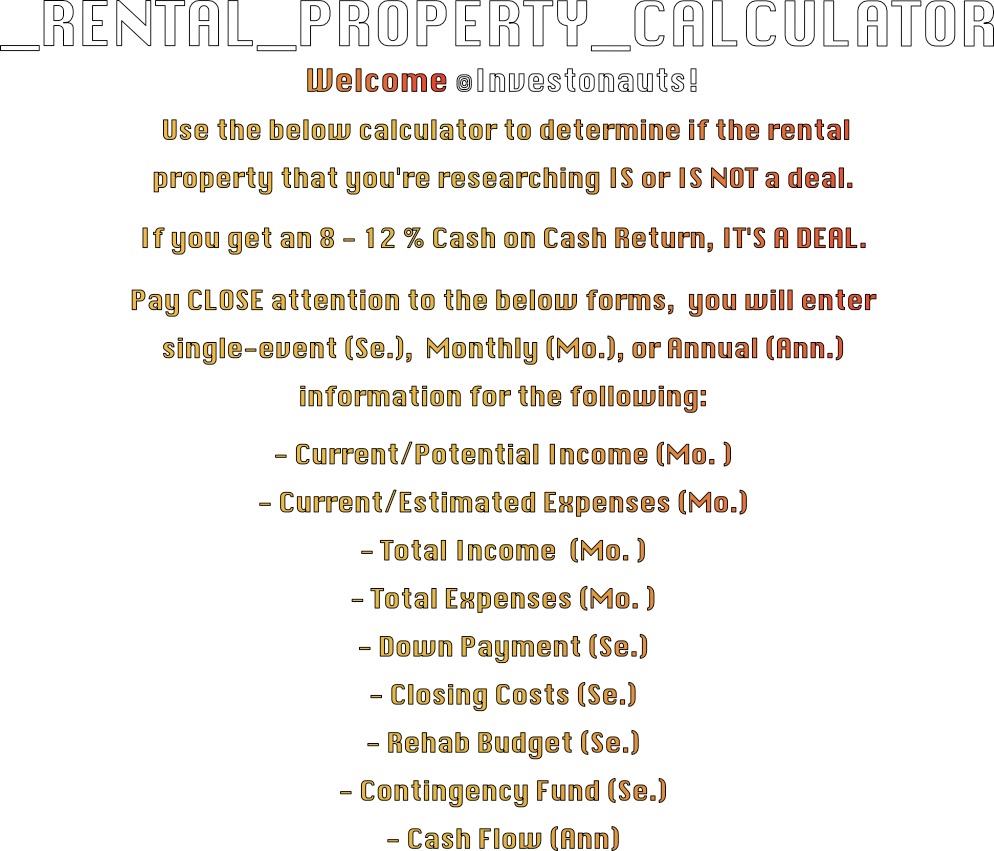
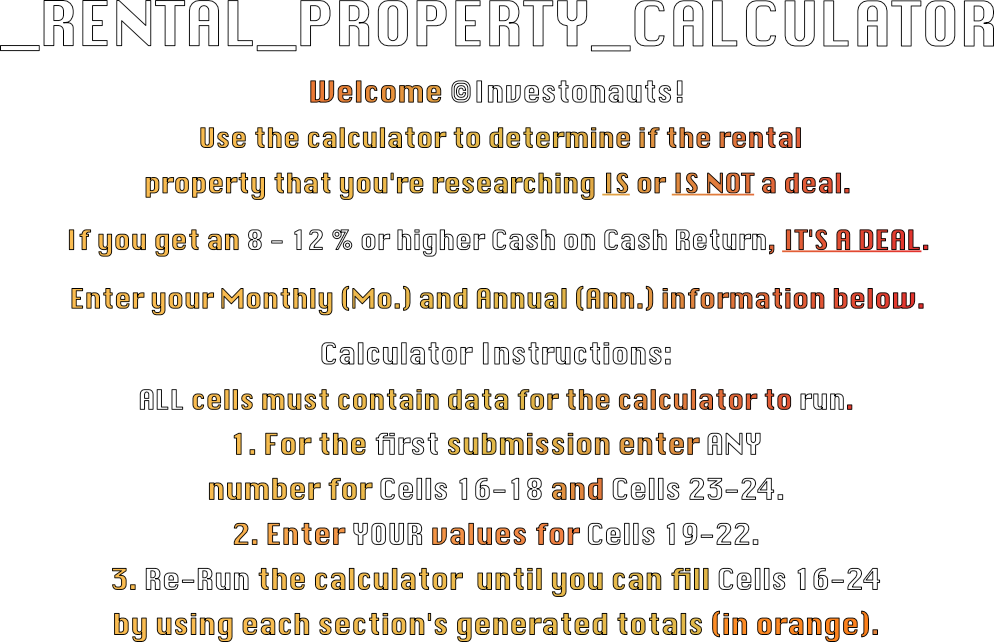
calculator complete

Changed region(s): [[0.0624, 0.3427, 0.9356, 0.7165], [0.0, 0.0, 1.0, 0.3115], [0.0936, 0.7477, 0.9044, 1.0]]

diff --git a/app/templates/rentalboard.html b/app/templates/rentalboard.html
@@ -19,13 +19,6 @@
     <img src="../static/images/rentalcalc.png">
 </div>
 
-<div class="btn-toolbar justify-content-center">
-    <div class="btn-group me-2">
-        <button type="button" class="btn btn-med btn-outline-danger">Export</button>
-    </div>
-</div>
-<br>
-
 <form method="POST" id="placeinfo">
     <!--Coding Options #2 and #3 use Form for jinja statements-->
     <!--Coding Option #1 use Form and Form2 for two separate divs with different 
@@ -35,12 +28,12 @@
         <div class="row">
             <div class="col-md-6">
                 <fieldset id="rentalincome-field">
-                    {{ form.rentalincome(class="form-control text-center", placeholder="Enter Mo. Rental Income") }}
+                    {{ form.rentalincome(class="form-control text-center", placeholder="Enter Monthly (Mo.) Rental Income (Cell 1)") }}
                 </fieldset>
                 <br>
 
                 <fieldset id="miscsvcincome-field">
-                    {{ form.miscsvcincome(class="form-control text-center", placeholder="Enter Mo. Miscellaneous Income (If you profit from other services) ") }}
+                    {{ form.miscsvcincome(class="form-control text-center", placeholder="Enter Other Rental Income (Cell 2) ") }}
                 </fieldset>
                 <br>
 
@@ -50,73 +43,73 @@
                 <br>
                 <!---->
                 <fieldset id="proptax-field">
-                    {{ form.proptax(class="form-control text-center", placeholder="Enter Mo. Property Tax") }}
+                    {{ form.proptax(class="form-control text-center", placeholder="Enter Mo. Property Tax (Cell 3)") }}
                 </fieldset>
                 <br>
 
                 <fieldset id="insurance-field">
-                    {{ form.insurance(class="form-control text-center", placeholder="Enter Mo. Insurance Cost") }}
+                    {{ form.insurance(class="form-control text-center", placeholder="Enter Mo. Insurance Cost (Cell 4)") }}
                 </fieldset>
                 <br>
 
                 <fieldset id="watersewer-field">
-                    {{ form.watersewer(class="form-control text-center", placeholder="Enter Mo. Water/Sewer Cost") }}
+                    {{ form.watersewer(class="form-control text-center", placeholder="Enter Mo. Water/Sewer Cost (Cell 5)") }}
                 </fieldset>
                 <br>
 
                 <fieldset id="garbage-field">
-                    {{ form.garbage(class="form-control text-center", placeholder="Enter Mo. Garbage Cost") }}
+                    {{ form.garbage(class="form-control text-center", placeholder="Enter Mo. Garbage Cost (Cell 6)") }}
                 </fieldset>
                 <br>
 
                 <fieldset id="electricity-field">
-                    {{ form.electricity(class="form-control text-center", placeholder="Enter Mo. Electricity Cost") }}
+                    {{ form.electricity(class="form-control text-center", placeholder="Enter Mo. Electricity Cost (Cell 7)") }}
                 </fieldset>
                 <br>
             </div>
             <div class="col-md-6">
                 <fieldset id="gas-field">
-                    {{ form.gas(class="form-control text-center", placeholder="Enter Mo. Gas Cost") }}
+                    {{ form.gas(class="form-control text-center", placeholder="Enter Mo. Gas Cost (Cell 8)") }}
                 </fieldset>
                 <br>
 
                 <fieldset id="hoafees-field">
-                    {{ form.hoafees(class="form-control text-center", placeholder="Enter Mo. HOA Fees") }}
+                    {{ form.hoafees(class="form-control text-center", placeholder="Enter Mo. HOA Fees (Cell 9)") }}
                 </fieldset>
                 <br>
 
                 <fieldset id="lawn-field">
-                    {{ form.lawn(class="form-control text-center", placeholder="Enter Mo. Lawn Maintenance Cost") }}
+                    {{ form.lawn(class="form-control text-center", placeholder="Enter Mo. Lawn Maintenance Cost (Cell 10)") }}
                 </fieldset>
                 <br>
 
                 <fieldset id="vacancy-field">
-                    {{ form.vacancy(class="form-control text-center", placeholder="Enter Mo. Vacancy Savings") }}
+                    {{ form.vacancy(class="form-control text-center", placeholder="Enter Mo. Vacancy Savings (Cell 11)") }}
                 </fieldset>
                 <br>
 
                 <fieldset id="repairs-field">
-                    {{ form.repairs(class="form-control text-center", placeholder="Enter Mo. Repair Savings") }}
+                    {{ form.repairs(class="form-control text-center", placeholder="Enter Mo. Repair Savings (Cell 12)") }}
                 </fieldset>
                 <br>
 
                 <fieldset id="capex-field">
-                    {{ form.capex(class="form-control text-center", placeholder="Enter Mo. Capex Savings") }}
+                    {{ form.capex(class="form-control text-center", placeholder="Enter Mo. Capex Savings (Cell 13)") }}
                 </fieldset>
                 <br>
 
                 <fieldset id="propmgmt-field">
-                    {{ form.propmgmt(class="form-control text-center", placeholder="Enter Mo. Property Management Cost") }}
+                    {{ form.propmgmt(class="form-control text-center", placeholder="Enter Mo. Property Management Cost (Cell 14)") }}
                 </fieldset>
                 <br>
 
                 <fieldset id="mortgage-field">
-                    {{ form.mortgage(class="form-control text-center", placeholder="Enter Mo. Property Mortgage Cost") }}
+                    {{ form.mortgage(class="form-control text-center", placeholder="Enter Mo. Property Mortgage Cost (Cell 15)") }}
                 </fieldset>
                 <br>
 
                 {%if form%}
-                <h6 class="font-weight-bold font-size:25px" id="results">Monthy Expenses: ${{calc1[1]}}
+                <h6 class="font-weight-bold font-size:25px" id="results">Montlhy Rental Expenses: ${{calc1[1]}}
                 </h6>
                 {%endif%}
                 <br>
@@ -127,30 +120,76 @@
         <div class="row">
             <div class="col-lg-6">
                 <fieldset id="totalincome-field">
-                    {{ form.totalincome(class="form-control text-center", placeholder="Enter Mo. Capex Savings") }}
+                    {{ form.totalincome(class="form-control text-center", placeholder="Enter Mo. Rental Income (From Section Total) (Cell 16)") }}
                 </fieldset>
                 <br>
 
                 <fieldset id="totalexpenses-field">
-                    {{ form.totalexpenses(class="form-control text-center", placeholder="Enter Monthly Property Management Cost") }}
+                    {{ form.totalexpenses(class="form-control text-center", placeholder="Enter Mo. Rental Expenses (From Section Total) (Cell 17)") }}
                 </fieldset>
                 <br>
 
                 {%if form%}
-                <h6 class="font-weight-bold font-size:25px" id="results">Total Monthly Cashflow: ${{calc1[2]}}
+                <h6 class="font-weight-bold font-size:25px" id="results">Monthly Cashflow: ${{calc1[2]}}
                 </h6>
                 {%endif%}
                 <br>
 
+                <fieldset id="totalmonthlycashflow-field">
+                    {{ form.totalmonthlycashflow(class="form-control text-center", placeholder="Enter Mo. Cashflow (From Section Total) (Cell 18)") }}
+                </fieldset>
+                <br>
+
+                {%if form%}
+                <h6 class="font-weight-bold font-size:25px" id="results">Annual Cashflow: ${{calc1[3]}}
+                </h6>
+                {%endif%}
+                <br>
+
+                <fieldset id="downpayment-field">
+                    {{ form.downpayment(class="form-control text-center", placeholder="Enter Your Property Down Payment (Cell 19)") }}
+                </fieldset>
+                <br>
+                {{ form.submit(class="btn btn-block btn-light") }}
             </div>
-        </div>
-        <div class="col-lg-6">
+            <div class="col-lg-6">
+                <fieldset id="onlyclosingcosts-field">
+                    {{ form.closingcosts(class="form-control text-center", placeholder="Enter Your Property Closing Costs (Cell 20)") }}
+                </fieldset>
+                <br>
 
+                <fieldset id="totalexpenses-field">
+                    {{ form.rehabbudget(class="form-control text-center", placeholder="Enter Your Rehab Budget (Cell 21)") }}
+                </fieldset>
+                <br>
 
+                <fieldset id="contingencyfund-field">
+                    {{ form.contingencyfund(class="form-control text-center", placeholder="Enter Your Contingency Fund (Cell 22)") }}
+                </fieldset>
+                <br>
 
+                {%if form%}
+                <h6 class="font-weight-bold font-size:25px" id="results">Required Investment (To Purchase Property): ${{calc1[4]}}
+                </h6>
+                {%endif%}
+                <br>
 
+                <fieldset id="annualcashflow-field">
+                    {{ form.annualcashflow(class="form-control text-center", placeholder="Enter Annual Cashflow (From Section Total) (Cell 23)") }}
+                </fieldset>
+                <br>
 
-            {{ form.submit(class="btn btn-block btn-outline-light") }}
+                <fieldset id="totalinvestment-field">
+                    {{ form.totalinvestment(class="form-control text-center", placeholder="Enter Required Investment (From Section Total) (Cell 24)") }}
+                </fieldset>
+                <br>
+
+                {%if form%}
+                <h6 class="font-weight-bold font-size:25px" id="results">Cash on Cash Return: %{{calc1[5]}}
+                </h6>
+                {%endif%}
+                <br>
+            </div>
         </div>
     </div>
 </form>

diff --git a/app/calculators/routes.py b/app/calculators/routes.py
@@ -26,6 +26,13 @@ def rincome():
     momortgage = form.mortgage.data
     mototalincome = form.totalincome.data
     mototalexpenses = form.totalexpenses.data
+    annualcashflow = form.totalmonthlycashflow.data
+    onlydownpayment = form.downpayment.data
+    onlyclosingcosts = form.closingcosts.data
+    onlyrehabbudget = form.rehabbudget.data
+    onlycontingencyfund = form.contingencyfund.data
+    myannualcashflow = form.annualcashflow.data
+    mytotalinvestment = form.totalinvestment.data
 
     calc1 = []
     if request.method == 'POST':
@@ -34,11 +41,20 @@ def rincome():
             resonepointfive = int(res1)
             res2 = float(moproptax) + float(moinsurance) + float(mowatersewer) + float(mogarbage) + float(moelectricity) + float(mogas) + float(mohoafees) + float(molawn) + float(movacancy) + float(morepairs) + float(mocapex) + float(mopropmgmt) + float(momortgage)
             restwopointfive = int(res2)
-            res3 = float(mototalincome) + float(mototalexpenses)
+            res3 = float(mototalincome) - float(mototalexpenses)
             resthreepointfive = int(res3)
+            res4 = float(annualcashflow)
+            resfourpointfive = int(res4) * int(12)
+            res5 = float(onlydownpayment) + float(onlyclosingcosts) + float(onlyrehabbudget) + float(onlycontingencyfund)
+            resfivepointfive = int(res5)
+            res6 = float(myannualcashflow) / float(mytotalinvestment)
+            ressixpointfive = float(res6) * float(100)
             calc1.append(resonepointfive)
             calc1.append(restwopointfive)
             calc1.append(resthreepointfive)
+            calc1.append(resfourpointfive)
+            calc1.append(resfivepointfive)
+            calc1.append(ressixpointfive)
             print('info received') 
         else:
             print('info not received')

diff --git a/app/calculators/forms.py b/app/calculators/forms.py
@@ -31,16 +31,17 @@ class rentalinvestingForm(FlaskForm):
     totalexpenses =  StringField('totalincome', validators=[DataRequired()])
 
     # - multiplication - calculate total monthly income (totalmonthlycashflow * 12)
-    #totalmonthlycashflow =  StringField('totalincome', validators=[DataRequired()])
+    totalmonthlycashflow =  StringField('totalincome', validators=[DataRequired()])
 
     # - addition - calculate total investment (total investment = dp + cc + rb + cf)
-    #downpayment = StringField('proptax', validators=[DataRequired()])
-    #closingcosts = StringField('proptax', validators=[DataRequired()])
-    #rehabbudget = StringField('proptax', validators=[DataRequired()])
-    #contingecyfund = StringField('proptax', validators=[DataRequired()])
+    downpayment = StringField('proptax', validators=[DataRequired()])
+    closingcosts = StringField('proptax', validators=[DataRequired()])
+    rehabbudget = StringField('proptax', validators=[DataRequired()])
+    contingencyfund = StringField('proptax', validators=[DataRequired()])
 
     # - division - calculate the cash on cash return (annual cash flow divided(/) by total invesment multiplied(*) by 100)
-    #annualcashflow = StringField('proptax', validators=[DataRequired()])
+    annualcashflow = StringField('proptax', validators=[DataRequired()])
+    totalinvestment = StringField('proptax', validators=[DataRequired()])
     #cashoncashperecentage = StringField('proptax', validators=[DataRequired()])
     submit = SubmitField()
 
